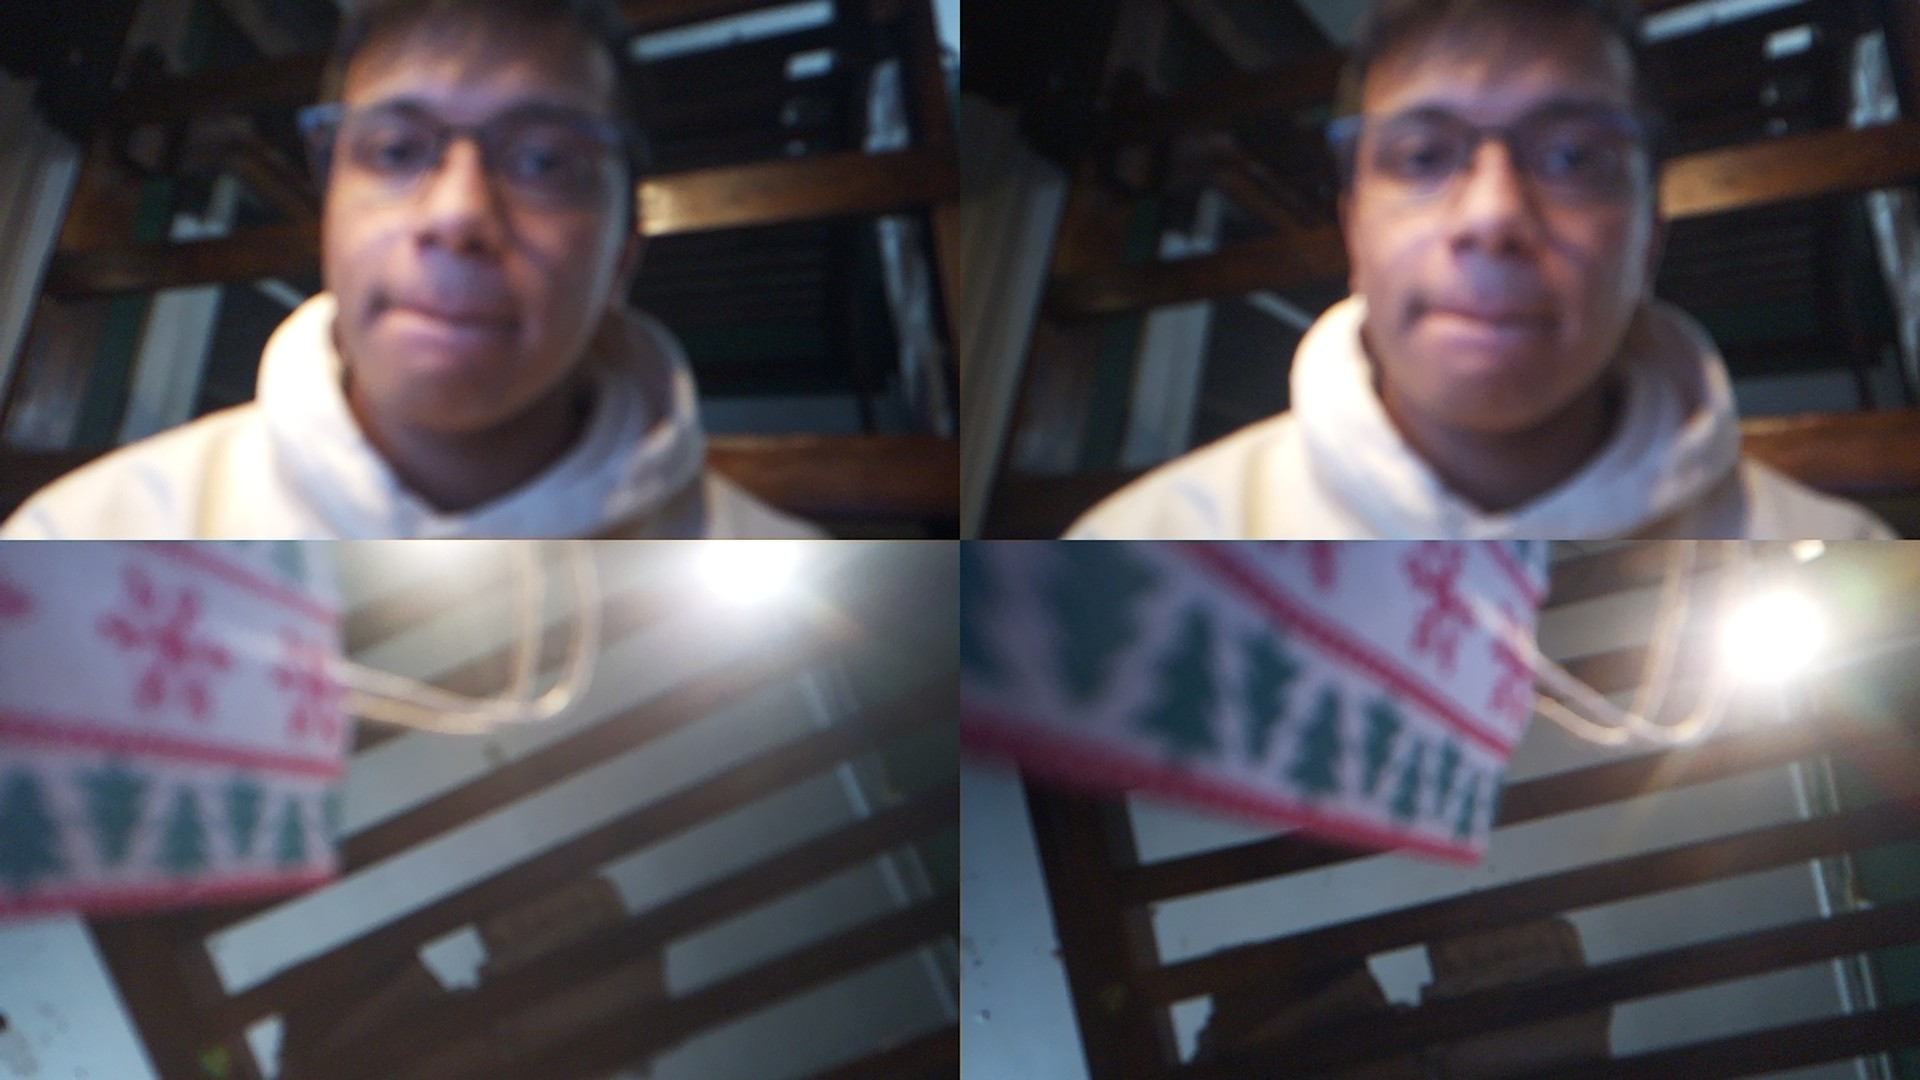
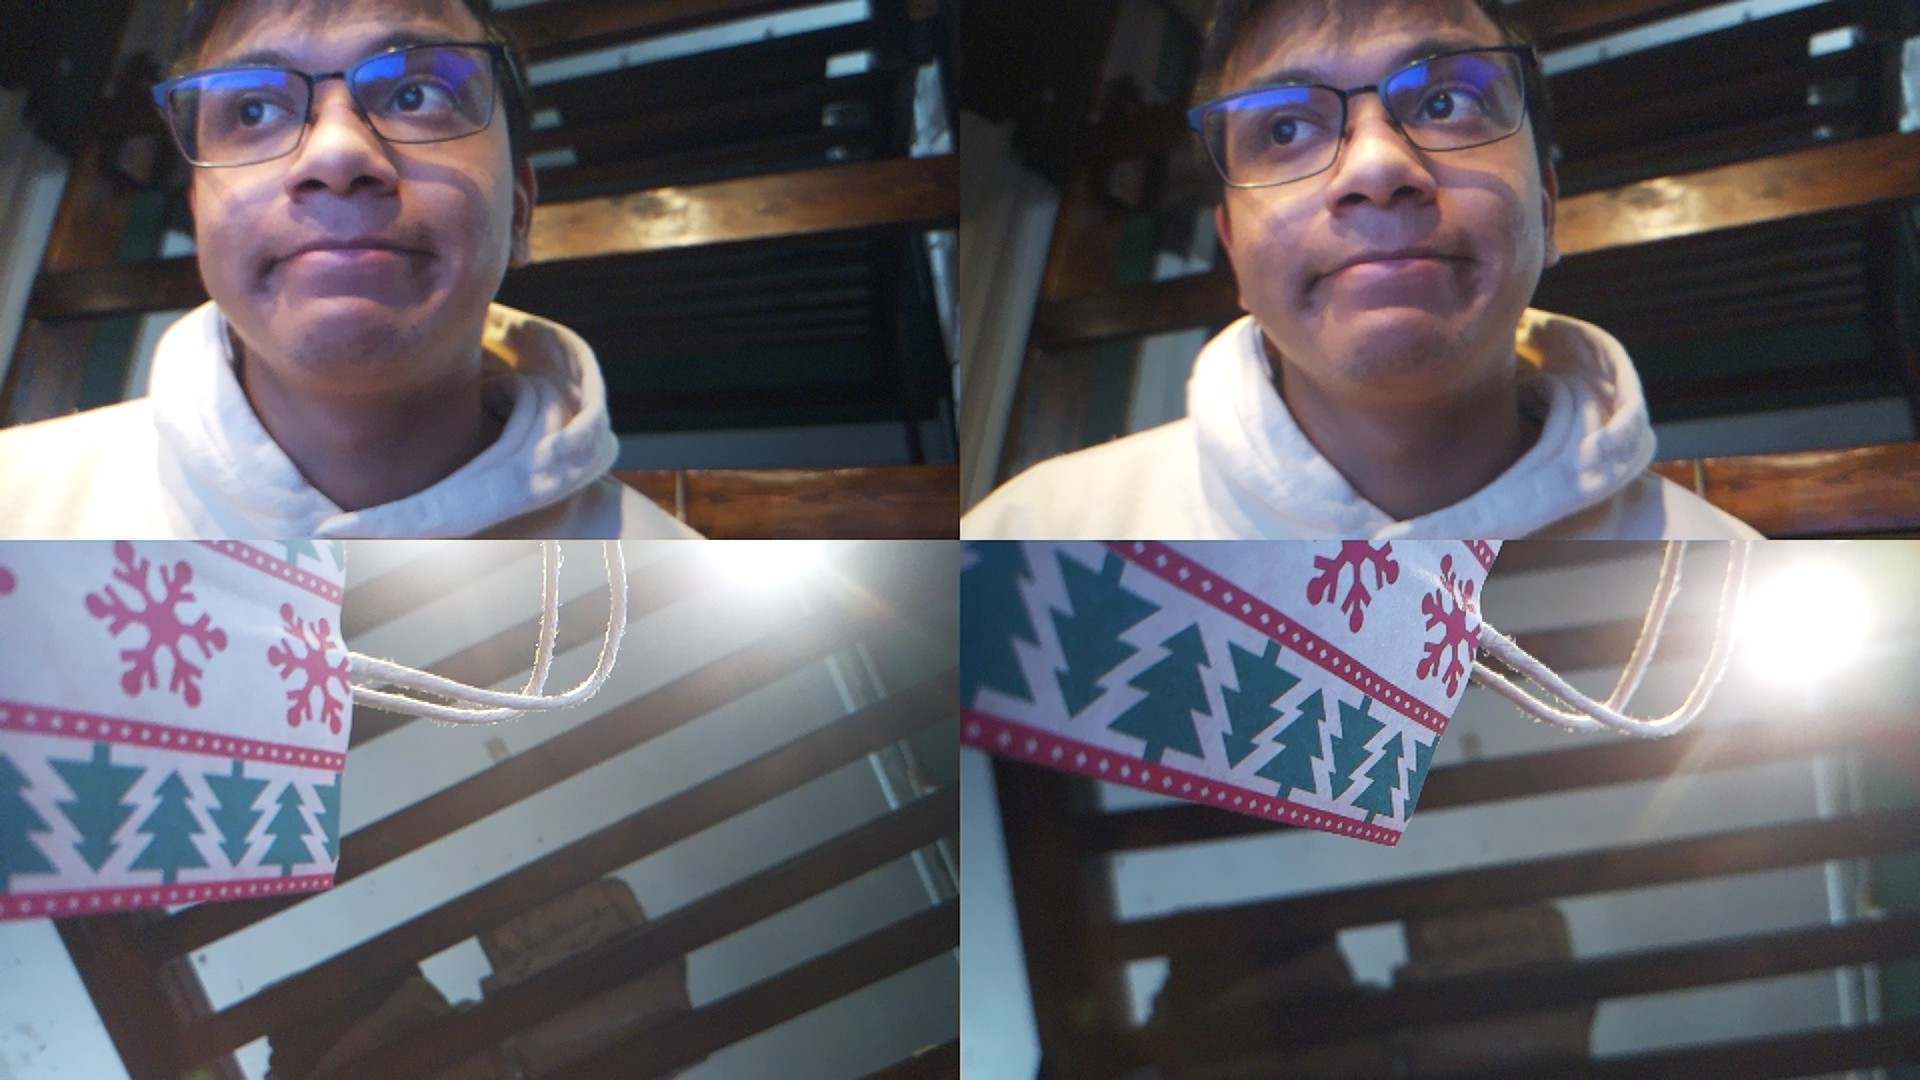
Fix autofocusing and take multiple pictures at a time.

diff --git a/main.py b/main.py
@@ -1,5 +1,7 @@
 from picamera2 import Picamera2, Preview
+from libcamera import controls
 import time
+import os
 
 picam2 = Picamera2(0)
 camera_config = picam2.create_still_configuration(main={"size": (1920, 1080)}, lores={"size": (640, 480)}, display="lores")
@@ -8,11 +10,15 @@ picam2.configure(camera_config)
 
 picam2.start_preview(Preview.QTGL)
 picam2.start()
+picam2.set_controls({"AfMode": 1 ,"AfTrigger": 0})
+success = picam2.autofocus_cycle()
 
-time.sleep(2)
 
-picam2.set_controls({"AfMode": 1, "LensPosition": 0})
-
-time.sleep(10)
-
-picam2.capture_file("image.jpg")
+inputY = True
+counter = 0
+while inputY:
+	if input("press 'y' if you want a picture taken") == 'y':
+		picam2.capture_file(f"image{counter}.jpg")
+		counter += 1
+	else:
+		inputY = False
